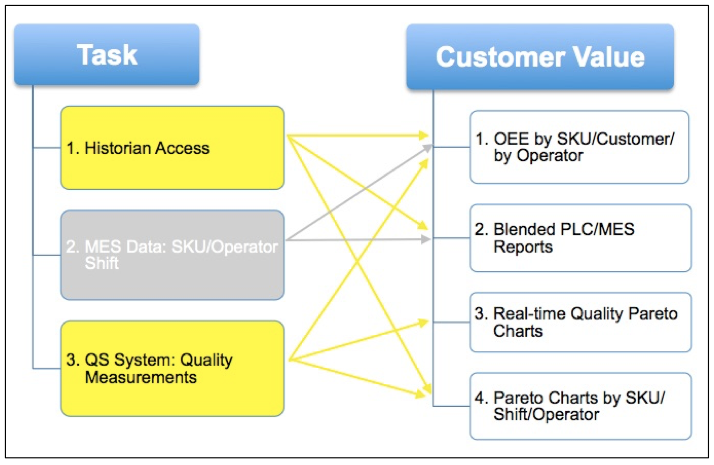
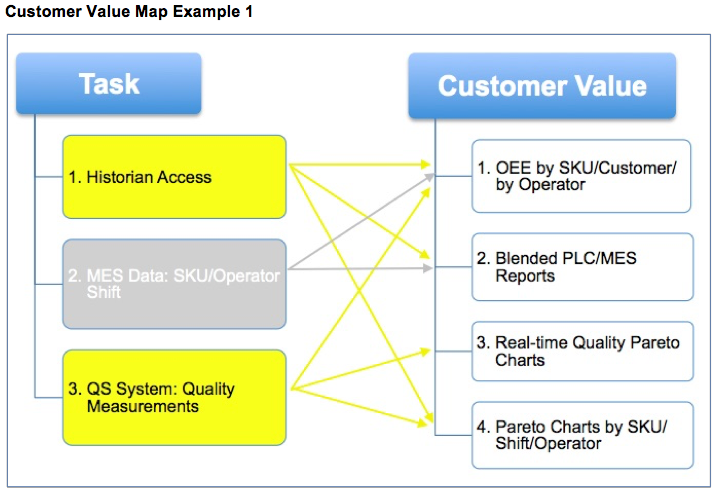
Updates evaluating-the-project-landscape/building-a-customer-value-map.md
Auto commit by GitBook Editor

diff --git a/evaluating-the-project-landscape/building-a-customer-value-map.md b/evaluating-the-project-landscape/building-a-customer-value-map.md
@@ -1,6 +1,6 @@
 ## Building a Customer Value Map {#docs-internal-guid-1eff3eca-d6e3-8b28-a0d3-454ddea12f0e}
 
-An important step in evaluating the project landscape is creating a customer value map. This valuable tool helps you set project milestones and informs the order of the implementation plan. For instance, how far do you have to get through the implementation plan in order to provide value to the customer? 
+An important step in evaluating the project landscape is creating a customer value map. This valuable tool helps you set project milestones and informs the order of the implementation plan. For instance, how far do you have to get through the implementation plan in order to provide value to the customer?
 
 The map contains the following columns to help you visualize the value:
 
@@ -12,13 +12,9 @@ You can draw a connection from each task to each customer value to determine whe
 
 Consider the two examples below, which list identical tasks and customer values. The tasks are listed in the order that the implementation team prefers, but depending on which tasks are attainable \(yellow\) and which are not \(grey\), you may have to guide the customer toward reprioritizing their value list.
 
-**Customer Value Map Example 1**
-
 In this example, it is clear that customer values 3 and 4 are the most realistic.
 
 ![](/evaluating-the-project-landscape/working-with-sample-data/Customer Value Map Ex 1 w Lines.png)
-
-**Customer Value Map Example 2**
 
 In this example, customer values 1 and 2 are more appropriate.
 
